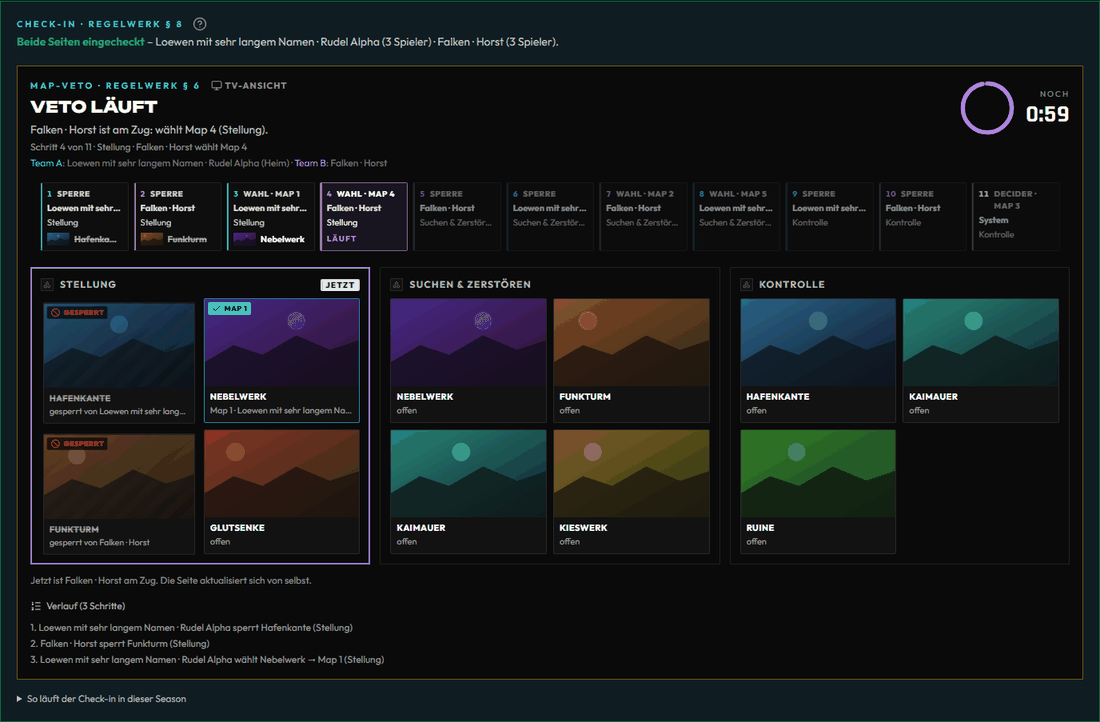
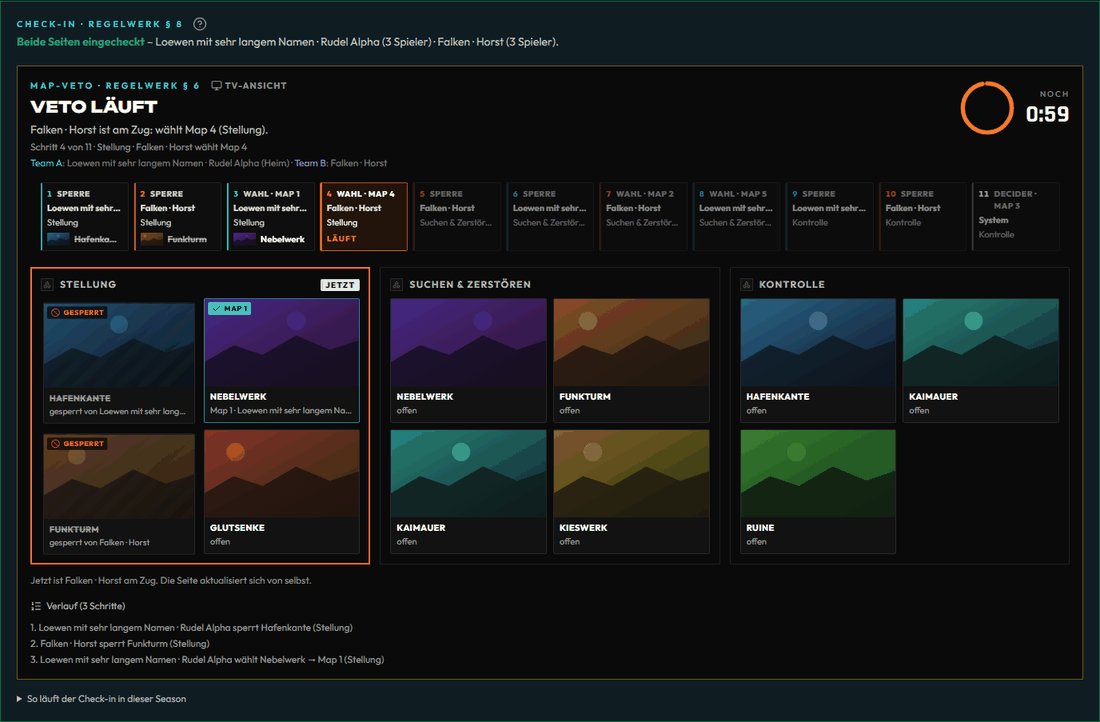
fix: Map-Veto – Team B orange statt violett (#1651)
Violett ist die Farbe der Art „Event“. Team B bekommt ein eigenes
Rot-Orange (--tls-veto-b-rgb 255 112 32 in styles/system.css), das sich
von Warn-Orange, Live-Rot und Gold (Decider) abhebt. Kontrast auf dem
dunklen Grund 7,2 : 1, als Schild mit dunkler Schrift 7,4 : 1. Team A
bleibt blau, Decider gold, Vorgabe der Woche grün, die letzten 10 s rot.
Web, TV, Doku, Handbuch und Handbuch-Bilder umgestellt; der Test prüft
Token, Abstand zu allen Rollen und Kontrast.

diff --git a/frontend/src/components/tls/league/VetoLive.test.jsx b/frontend/src/components/tls/league/VetoLive.test.jsx
@@ -149,7 +149,7 @@ test("die letzten zehn Sekunden: rot und - nur ohne „Bewegung reduzieren“ - 
   expect(reduced.slice(0, reduced.indexOf("}\n}") + 1)).toContain(".tls-veto-clock[data-urgent=\"true\"] .tls-veto-clock__arc { animation: none; }");
 });
 
-test("Teamfarben: A blau, B violett - keine Status-Farbe, lesbar auf dem dunklen Grund und als Schild", () => {
+test("Teamfarben: A blau, B orange - keine Status-Farbe, nicht Event-Violett, lesbar auf dem dunklen Grund und als Schild", () => {
   const css = readFileSync(path.join(process.cwd(), "src/index.css"), "utf8").replace(/\r\n/g, "\n");
   const live = css.slice(css.indexOf("/* Map-Veto live (D.4, #1651)"), css.indexOf("/* Bestätigungs-Blatt der Anmeldung"));
   const toneOf = (tone) => {
@@ -158,14 +158,24 @@ test("Teamfarben: A blau, B violett - keine Status-Farbe, lesbar auf dem dunklen
     return at < 0 ? null : live.slice(at + lead.length, live.indexOf("-rgb)", at));
   };
   expect(toneOf("a")).toBe("brand");
-  expect(toneOf("b")).toBe("event");
-  // Team B ist weder Achtung (warn), noch läuft (live), noch Ehre/Decider (honor), noch frei (ok).
-  expect(["warn", "live", "honor", "ok"]).not.toContain(toneOf("b"));
+  expect(toneOf("b")).toBe("veto-b");
+  // Team B ist weder Achtung (warn), noch läuft (live), noch Ehre/Decider (honor), noch frei (ok), noch die Art „Event“ (Violett).
+  expect(["warn", "live", "honor", "ok", "event"]).not.toContain(toneOf("b"));
   const tv = readFileSync(path.join(process.cwd(), "src/components/tv/tv.css"), "utf8");
-  expect(tv).toContain('.tv-veto__turn[data-tone="b"] .tv-veto__who { color: rgb(var(--tls-event-rgb)); }');
+  expect(tv).toContain('.tv-veto__turn[data-tone="b"] .tv-veto__who { color: rgb(var(--tls-veto-b-rgb)); }');
+  // Das Orange steht als eigenes Token in styles/system.css und hebt sich sichtbar von jeder Rolle ab (ein Kanal mind. 40 weg).
+  const system = readFileSync(path.join(process.cwd(), "src/styles/system.css"), "utf8");
+  const match = system.match(/--tls-veto-b-rgb: (\d+) (\d+) (\d+);/);
+  expect(match).not.toBeNull();
+  const channels = match.slice(1).map(Number);
+  const teamB = `#${channels.map((value) => value.toString(16).padStart(2, "0")).join("").toUpperCase()}`;
+  for (const role of ["warn", "live", "honor", "ok", "event", "brand"]) {
+    const other = [1, 3, 5].map((index) => parseInt(ROLE_COLORS[role].slice(index, index + 2), 16));
+    expect(Math.max(...channels.map((value, index) => Math.abs(value - other[index]))), `Team B gegen ${role}`).toBeGreaterThanOrEqual(40);
+  }
   // Kontrast: Schrift in der Farbe auf dem Grund und dunkle Schrift auf dem Schild (mind. 4,5 : 1).
-  expect(contrastRatio(ROLE_COLORS.event, SURFACE_COLORS.base)).toBeGreaterThanOrEqual(4.5);
-  expect(contrastRatio("#050505", ROLE_COLORS.event)).toBeGreaterThanOrEqual(4.5);
+  expect(contrastRatio(teamB, SURFACE_COLORS.base)).toBeGreaterThanOrEqual(4.5);
+  expect(contrastRatio("#050505", teamB)).toBeGreaterThanOrEqual(4.5);
   expect(contrastRatio(ROLE_COLORS.live, SURFACE_COLORS.base)).toBeGreaterThanOrEqual(4.5);
 });
 

diff --git a/frontend/src/index.css b/frontend/src/index.css
@@ -3623,15 +3623,16 @@ html[data-season-still-cards] .tls-card[data-season-perch="card"]:focus-visible 
   100% { opacity: 0; }
 }
 
-/* Map-Veto live (D.4, #1651): Countdown, Zeitleiste und Brett (components/tls/league/VetoLive.jsx). Team A blau (brand), Team B violett
-   (der Ton der Rolle event - kein Status: Orange, Rot und Gold heißen schon Achtung, läuft bzw. Ehre/Decider; Review), Decider gold,
+/* Map-Veto live (D.4, #1651): Countdown, Zeitleiste und Brett (components/tls/league/VetoLive.jsx). Team A blau (brand), Team B orange
+   (eigener Ton --tls-veto-b-rgb aus styles/system.css - kein Status: Warn-Orange, Rot und Gold heißen schon Achtung, läuft bzw.
+   Ehre/Decider, Violett ist die Art „Event“), Decider gold,
    Vorgabe der Woche grün - als Farbe der Seite (--tls-veto-rgb) an Ring, Schritt und Karte. Bewegt werden nur transform (auch die
    Einzel-Eigenschaften translate und scale, damit Aufbau und Zustand sich nicht in die Quere kommen) und opacity, Dauern und Kurve aus den
    Bewegungs-Regeln; der Weg hängt an --tls-motion-on. „Bewegung reduzieren“ stellt Dauern auf fast 0: alles steht sofort da, der Ring
    atmet nicht, der Rahmen zeichnet sich nicht nach. */
 .tls-veto-clock, .tls-veto-step, .tls-veto-card--live, .tls-veto-trace { --tls-veto-rgb: 255 255 255; }
 :is(.tls-veto-clock, .tls-veto-step, .tls-veto-card--live, .tls-veto-trace)[data-tone="a"] { --tls-veto-rgb: var(--tls-brand-rgb); }
-:is(.tls-veto-clock, .tls-veto-step, .tls-veto-card--live, .tls-veto-trace)[data-tone="b"] { --tls-veto-rgb: var(--tls-event-rgb); }
+:is(.tls-veto-clock, .tls-veto-step, .tls-veto-card--live, .tls-veto-trace)[data-tone="b"] { --tls-veto-rgb: var(--tls-veto-b-rgb); }
 :is(.tls-veto-clock, .tls-veto-trace)[data-tone="system"] { --tls-veto-rgb: var(--tls-honor-rgb); }
 .tls-veto-clock[data-tone="urgent"] { --tls-veto-rgb: var(--tls-live-rgb); }
 

diff --git a/frontend/src/styles/system.css b/frontend/src/styles/system.css
@@ -13,7 +13,8 @@
    text-muted      Nebentext (#1232)
    quiet   Grau    vorbei oder ruhig: beendet, abgesagt, Warteliste
    silver, bronze  nur für Platz 2 und 3
-   pole, fastest   Pink und Violett nur für Pole und schnellste Runde (Rennserien) */
+   pole, fastest   Pink und Violett nur für Pole und schnellste Runde (Rennserien)
+   veto-b  Orange  nur Team B im Map-Veto (Team A ist brand) */
 :root {
   --tls-brand-rgb: 41 182 232;
   --tls-brand: rgb(var(--tls-brand-rgb));
@@ -43,6 +44,12 @@
   --tls-pole: rgb(var(--tls-pole-rgb));
   --tls-fastest-rgb: 192 132 252;
   --tls-fastest: rgb(var(--tls-fastest-rgb));
+
+  /* Map-Veto (#1651): Team B in kräftigem Rot-Orange - nur für die Seite B im Veto (Ring, Ablauf, Karte, TV). Bewusst
+     kein Status: hebt sich von Achtung (warn), läuft (live) und Gold (honor, Decider) ab und ist nicht das Violett der
+     Art „Event“. Lesbar als Schrift auf dem Grund (7,2 : 1) und als Schild mit dunkler Schrift (7,4 : 1). */
+  --tls-veto-b-rgb: 255 112 32;
+  --tls-veto-b: rgb(var(--tls-veto-b-rgb));
 
   /* Flächen: Schwarz als Grund, darauf drei Stufen (Karte, gehobene Karte, Kachel). */
   --tls-surface-0: #0A0A0A;

diff --git a/frontend/src/lib/leagueVeto.js b/frontend/src/lib/leagueVeto.js
@@ -416,8 +416,9 @@ export function countdownAnnouncement(seconds) {
 }
 
 /**
- * Team A ist blau, Team B violett - Ring, Ablauf und Karten zeigen damit, wer gesperrt oder gewählt hat. Bewusst keine Status-Farbe
- * (Orange, Rot, Gold heißen schon Achtung, läuft, Decider); der Ton steht als --tls-veto-rgb in index.css.
+ * Team A ist blau, Team B orange - Ring, Ablauf und Karten zeigen damit, wer gesperrt oder gewählt hat. Bewusst keine Status-Farbe
+ * (Warn-Orange, Rot, Gold heißen schon Achtung, läuft, Decider; Violett ist die Art „Event“): Team B hat ein eigenes Rot-Orange
+ * (--tls-veto-b-rgb in styles/system.css); der Ton steht als --tls-veto-rgb in index.css.
  */
 export const SIDE_TONE = Object.freeze({ A: "a", B: "b" });
 export const sideTone = (side) => SIDE_TONE[side] || "system";

diff --git a/frontend/src/components/tv/tv.css b/frontend/src/components/tv/tv.css
@@ -1625,7 +1625,7 @@ td.tv-standings__num--strong { color: #ffffff; font-weight: 800; }
   background: var(--tv-panel);
 }
 .tv-veto__turn[data-tone="a"] .tv-veto__who { color: var(--tv-accent); }
-.tv-veto__turn[data-tone="b"] .tv-veto__who { color: rgb(var(--tls-event-rgb)); }
+.tv-veto__turn[data-tone="b"] .tv-veto__who { color: rgb(var(--tls-veto-b-rgb)); }
 .tv-veto__who { overflow-wrap: anywhere; }
 /* Der Countdown: Zahl mitten im Ring. */
 .tv-veto__clock { position: relative; display: grid; place-items: center; }

diff --git a/docs/handbuch/liga-captains.md b/docs/handbuch/liga-captains.md
@@ -54,7 +54,7 @@ Den Stand siehst du auf der Ligaseite und unter **Teams → Deine Teams**:
 | **Schweigen zählt:** Antwortet ihr als Gastseite nicht auf einen Vorschlag der Heimseite, gilt er nach **72 Stunden** (wenn er in der Spielwoche liegt). Hat die Heimseite mehrere Termine vorgeschlagen, gilt der **früheste**. Die Matchseite sagt, ab wann. | Matchseite → **Termin und Verschiebung** | 72 Stunden ab dem Vorschlag, Sperrzeiten zählen nicht |
 | **Verschieben:** Steht der Termin fest (Einigung, 72-h-Regel oder Leitung), gibt es keine neuen Vorschläge mehr. Neuen Termin und **Grund** eintragen → **Beantragen**; die andere Seite tippt **Zustimmen** oder **Ablehnen**, ihr könnt **Zurückziehen**. Bis zur Zustimmung gilt der alte Termin. Die Seite zeigt, wie viele noch gehen und bis wann („Noch 1 Verschiebung möglich, beantragen bis Sa 14.11. 20:00“). Darunter steht der **Verlauf** des Termins. | Matchseite → **Termin und Verschiebung**; offene Anträge der Gegenseite auch unter **Offene Aktionen** („Verschiebung beantworten“, beantworten im Web) | spätestens **24 Stunden** vor dem Termin, höchstens **zweimal** je Spiel, in derselben Spielwoche – alles darüber entscheidet die Liga-Leitung (**@leitung** im Matchchat) |
 | **Einchecken:** 15 Minuten vor dem Termin geht auf der Matchseite der Block **Check-in** auf (ihr bekommt eine Nachricht, der Ring zählt herunter). Hakt an, **wer da ist** – mindestens **3**, nur aus eurem Kader, nur wer spielen darf (grau mit Grund = nicht wählbar; wer selbst betroffen ist, sieht oben „Du kannst so nicht einchecken“ und **Im Profil nachtragen**) – und tippt **Einchecken**. Dürfen zu wenige spielen, steht das schon vor dem Fenster da, und Einchecken geht erst nach dem Nachtragen. Bis zum Schluss könnt ihr Anwesende ergänzen. Ihr seht, ob die Gegenseite schon da ist. Hat euer Co-Team einer neuen Regelversion nicht zugestimmt, geht kein Check-in: Die Seite sagt es und führt zur neuen Fassung. | Matchseite → **Check-in**; auf der Startseite unter **Offene Aktionen** („Jetzt einchecken“) | von 15 Minuten vor bis **15 Minuten nach dem Termin**. Fehlt ihr danach, entscheidet die Liga-Leitung (kampflos, nachtragen oder verlängern) – gewertet wird nie von selbst |
-| **Map-Veto** (wenn eure Season eins hat): Sind beide Seiten eingecheckt, beginnt es von selbst. Seid ihr am Zug, tippt ihr im markierten Modus eine Map-Karte an – **Sperren** oder **Wählen**, je nach Schritt; läuft die Zeit ab, wählt das System. Die Seite zieht von selbst mit: Der Zug der Gegenseite leuchtet auf, die Leiste **Ablauf** zeigt jeden Schritt (Team A blau, Team B violett) und der Countdown die Zeit des Servers; die letzten 10 Sekunden stehen rot mit „gleich vorbei“. Habt ihr die Seite nicht offen und seid 20 Sekunden am Zug, kommt einmal die Nachricht **„Map-Veto wartet“**. Steht eine Map als **Vorgabe der Woche** da, hat die Liga-Leitung sie für diesen Spieltag festgelegt: Sie ist weder sperrbar noch wählbar und steht in der Spielreihenfolge fest. **Spielwoche heißt hier Spieltag:** Die Vorgabe von Spielwoche 3 gilt für alle Spiele des dritten Spieltags. Ein verschobenes Spiel bleibt in seiner Spielwoche und spielt deren Vorgabe, auch wenn es erst später stattfindet. Fehlt die Vorgabe noch, steht dort **Veto wartet auf die Vorgabe der Woche** – die Leitung bekommt einen Hinweis, gewertet wird nichts. Sobald sie eingetragen ist, bekommt ihr die Nachricht „Vorgabe da – Veto kann starten“, und auf der Matchseite steht **Vorgabe steht – bereit zum Veto?**: Tippt **Bereit zum Veto**. Die Seite zeigt, wer schon bereit ist („Ihr seid bereit – wartet auf die Gegenseite“); solange die Gegenseite fehlt, könnt ihr mit **Doch nicht bereit** zurücknehmen. Sind **beide Seiten** bereit, beginnt das Veto sofort. Erst ab da läuft die Zeit je Schritt, vorher gibt es keine Frist. Kann eine Seite nicht tippen, startet die Liga-Leitung im Notfall (**@leitung** im Matchchat). | Matchseite → **Check-in** → **Map-Veto** | je Schritt die Zeit der Season (Vorgabe 60 Sekunden) |
+| **Map-Veto** (wenn eure Season eins hat): Sind beide Seiten eingecheckt, beginnt es von selbst. Seid ihr am Zug, tippt ihr im markierten Modus eine Map-Karte an – **Sperren** oder **Wählen**, je nach Schritt; läuft die Zeit ab, wählt das System. Die Seite zieht von selbst mit: Der Zug der Gegenseite leuchtet auf, die Leiste **Ablauf** zeigt jeden Schritt (Team A blau, Team B orange) und der Countdown die Zeit des Servers; die letzten 10 Sekunden stehen rot mit „gleich vorbei“. Habt ihr die Seite nicht offen und seid 20 Sekunden am Zug, kommt einmal die Nachricht **„Map-Veto wartet“**. Steht eine Map als **Vorgabe der Woche** da, hat die Liga-Leitung sie für diesen Spieltag festgelegt: Sie ist weder sperrbar noch wählbar und steht in der Spielreihenfolge fest. **Spielwoche heißt hier Spieltag:** Die Vorgabe von Spielwoche 3 gilt für alle Spiele des dritten Spieltags. Ein verschobenes Spiel bleibt in seiner Spielwoche und spielt deren Vorgabe, auch wenn es erst später stattfindet. Fehlt die Vorgabe noch, steht dort **Veto wartet auf die Vorgabe der Woche** – die Leitung bekommt einen Hinweis, gewertet wird nichts. Sobald sie eingetragen ist, bekommt ihr die Nachricht „Vorgabe da – Veto kann starten“, und auf der Matchseite steht **Vorgabe steht – bereit zum Veto?**: Tippt **Bereit zum Veto**. Die Seite zeigt, wer schon bereit ist („Ihr seid bereit – wartet auf die Gegenseite“); solange die Gegenseite fehlt, könnt ihr mit **Doch nicht bereit** zurücknehmen. Sind **beide Seiten** bereit, beginnt das Veto sofort. Erst ab da läuft die Zeit je Schritt, vorher gibt es keine Frist. Kann eine Seite nicht tippen, startet die Liga-Leitung im Notfall (**@leitung** im Matchchat). | Matchseite → **Check-in** → **Map-Veto** | je Schritt die Zeit der Season (Vorgabe 60 Sekunden) |
 | **Starten:** Sind beide Seiten eingecheckt und ist das Veto fertig, tippt eine Seite **Spiel starten – Map 1 läuft** – auch vor dem Termin. Ab da zählt die Spielzeit, verschieben geht nicht mehr. Ändert sich das Regelwerk dazwischen, stimmt ihr erst zu. | Matchseite → **Check-in** | sobald beide da sind |
 | **Ergebnis nicht vergessen:** Ist ein Spiel 24 Stunden nach dem Termin nicht gemeldet, kommt eine Erinnerung an beide Seiten; nach 48 Stunden entscheidet die Liga-Leitung. | Matchseite | 24 bzw. 48 Stunden nach dem Termin |
 | **Melden:** erst, wenn **beide Seiten eingecheckt** sind – sonst sagt die Matchseite, wer fehlt (in der App kommt der Satz beim Absenden). Hat niemand auf **Spiel starten** getippt, gilt das Spiel mit eurer Meldung als begonnen. Dann je Map Modus, **Map aus dem Pool** und den **Endstand** der Map – den **Sieger** ergeben die Punkte, antippen müsst ihr ihn nur bei Gleichstand (Endstand Pflicht; an jeder Map steht, wie sie gewertet wird, z. B. „bis 250 Punkte“ oder „6 Runden, höchstens 11“ – ein unpassender Endstand wird gleich angezeigt) – bis die Serie entschieden ist. Beim Bestätigen gelten die Punkte der ersten Meldung. Dieselbe Map im selben Modus gibt es je Serie nur einmal. Am Schluss einmal ankreuzen, **wer bei euch gespielt hat**: mindestens 3, bei Wechseln auch 6 und mehr, nur aus eurem Kader. Wer nicht spielen darf, steht grau mit Grund da. | Matchseite, **nur im Web** (die App lehnt eine erste Meldung ab) | nach dem Spiel |

diff --git a/docs/LIGA.md b/docs/LIGA.md
@@ -2595,8 +2595,9 @@ die Frist des Servers wird in Geräte-Zeit umgerechnet (`vetoDeadline(block, off
 richtig. Läuft die Zeit ab, steht „Zeit um“; gewählt wird nur auf dem Server (Nr. 23).
 
 **Darstellung** (`components/tls/league/VetoLive.jsx`, Regeln in `index.css` „Map-Veto live“, TV in `tv.css`): Map-Karten mit Bild im Stil
-der Veto-Karten der Team-Liga (`maps.css`, #1616); Team A blau (`--tls-brand`), Team B violett (der Ton von `--tls-event` - bewusst keine
-Status-Farbe: Orange, Rot und Gold heißen schon Achtung, läuft bzw. Decider; Kontrast auf dem Grund 6 : 1), Decider gold, Vorgabe der
+der Veto-Karten der Team-Liga (`maps.css`, #1616); Team A blau (`--tls-brand`), Team B orange (eigenes Rot-Orange `--tls-veto-b`, 255 112 32 in
+`styles/system.css` - bewusst keine Status-Farbe: Warn-Orange, Rot und Gold heißen schon Achtung, läuft bzw. Decider, Violett ist die Art
+„Event“; Kontrast auf dem Grund 7,2 : 1, als Schild mit dunkler Schrift 7,4 : 1), Decider gold, Vorgabe der
 Woche grün. Zustände: offen; gesperrt (gedimmt, leicht abgesenkt, Bann-Symbol, „gesperrt von …“); gewählt (Schild „Map N“ in der Farbe
 der Seite); Decider; Vorgabe der Woche (wie #2326). Ist die eigene Seite am Zug, sind die Karten des laufenden Modus die Auswahl
 (`veto-option-*`), nicht wählbare ausgegraut mit Hinweis. **Detail-Runde:** gestaffelter Aufbau (40 ms je Karte), Anheben eigener

diff --git a/docs/handbuch/liga.md b/docs/handbuch/liga.md
@@ -934,7 +934,7 @@ Mit dem Kasten aus 2.7d läuft nach dem Check-in das Map-Veto – auf der **Matc
   Team A (Heimteam, oder gelost) ist zuerst dran. Die Seite zeigt den laufenden Schritt („Schritt 3 von 11 · Stellung · Loewen wählt
   Map 1“), einen Countdown, den **Ablauf** als Leiste (jeder Schritt mit Sperre/Wahl/Decider, Team A oder B und Modus; fertige Schritte
   mit der Map, der laufende markiert) und je Modus alle Maps als **Karten mit Bild** (offen, gesperrt mit Bann-Zeichen und wer, gewählt
-  mit „Map 1“ in der Farbe der Seite, Decider, Vorgabe der Woche). Team A ist blau, Team B violett.
+  mit „Map 1“ in der Farbe der Seite, Decider, Vorgabe der Woche). Team A ist blau, Team B orange.
 - **Ziehen:** Captain oder Vertreter der Seite am Zug tippen im markierten Modus eine Karte an – **Sperren** oder **Wählen**, je nach
   Schritt. Ausgegraute Maps sind gesperrt, schon gewählt oder würden die Serie nicht mehr aufgehen lassen (die Seite sagt es beim
   Antippen). Die übrige Map eines Decider-Schritts setzt das System sofort. Ein Doppelklick oder ein zweites Gerät zählt nicht doppelt;
